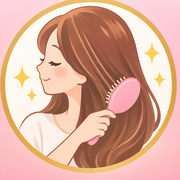
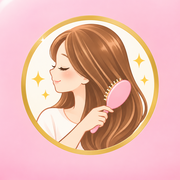
抜け毛記録：アイコンを丸が切れない新しい絵に差し替え
Claude-Session: https://claude.ai/code/session_014RjTtrGLYvAn8pcVggvoDD

diff --git a/nukege-kiroku.html b/nukege-kiroku.html
@@ -7,8 +7,8 @@
 <meta name="apple-mobile-web-app-status-bar-style" content="default">
 <meta name="apple-mobile-web-app-title" content="抜け毛記録">
 <meta name="theme-color" content="#F7CEE2">
-<link rel="apple-touch-icon" sizes="180x180" href="nukege-icon-180.png">
-<link rel="icon" type="image/png" sizes="512x512" href="nukege-icon-512.png">
+<link rel="apple-touch-icon" sizes="180x180" href="nukege-icon-180.png?v=2">
+<link rel="icon" type="image/png" sizes="512x512" href="nukege-icon-512.png?v=2">
 <title>抜け毛記録 🎀</title>
 <style>
   @import url('https://fonts.googleapis.com/css2?family=Zen+Maru+Gothic:wght@500;700;900&family=Playfair+Display:ital,wght@1,600&display=swap');
